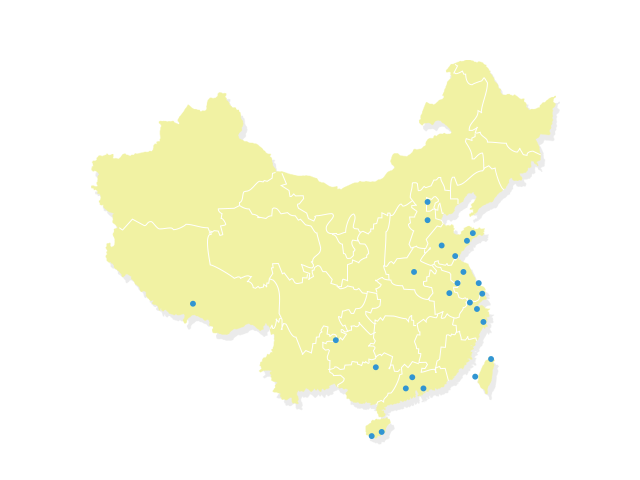
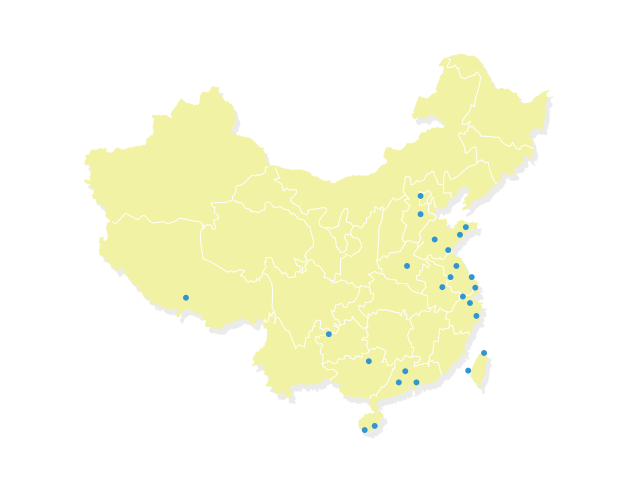
mark cities on the map of selected region

diff --git a/templates/pages/home.html b/templates/pages/home.html
@@ -8,7 +8,13 @@
             <div class="img pull-left card card5" data-bg-src="images/region5.jpg" data-region="5"></div>
             <div class="guideline"></div>
         </div>
-        <div class="map img" data-bg-src="images/map-china.png"></div>
+        <div class="map img" data-bg-src="images/map-china.png">
+            <div class="img poi-layer invisible" data-bg-src="images/map-china-1.png" data-region="1"></div>
+            <div class="img poi-layer invisible" data-bg-src="images/map-china-2.png" data-region="2"></div>
+            <div class="img poi-layer invisible" data-bg-src="images/map-china-3.png" data-region="3"></div>
+            <div class="img poi-layer invisible" data-bg-src="images/map-china-4.png" data-region="4"></div>
+            <div class="img poi-layer invisible" data-bg-src="images/map-china-5.png" data-region="5"></div>
+        </div>
         <button class="btn btn-block btn-lg btn-primary btn-go">开始游戏</button>
     </div>
     <div class="hero-layer img" data-bg-src="images/hero.png"></div>

diff --git a/staticfiles/javascripts/dashboard/views/home.js b/staticfiles/javascripts/dashboard/views/home.js
@@ -29,6 +29,9 @@ define([
             this.$('.card').removeClass('selected');
             $card.addClass('selected');
             this.$('.btn-go').text('Ready? Go!');
+            var region = $card.data('region');
+            this.$('.poi-layer').addClass('invisible');
+            this.$('.poi-layer[data-region=' + region + ']').removeClass('invisible');
         },
         render: function() {
             this.$('.btn-go').text('开始游戏');

diff --git a/staticfiles/stylesheets/application/pages/_home.scss b/staticfiles/stylesheets/application/pages/_home.scss
@@ -25,6 +25,14 @@
     }
     .map {
         padding-top: 75%;
+        position: relative;
+    }
+    .poi-layer {
+        position: absolute;
+        top: 0;
+        left: 0;
+        width: 100%;
+        height: 100%;
     }
     .board {
         position: relative;
